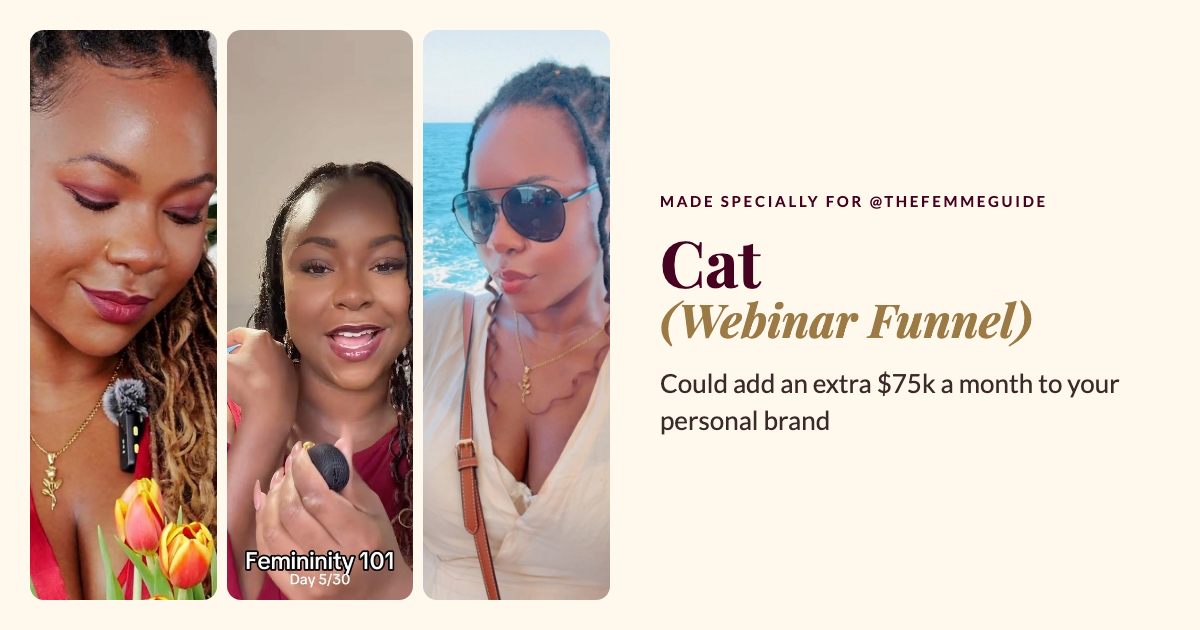
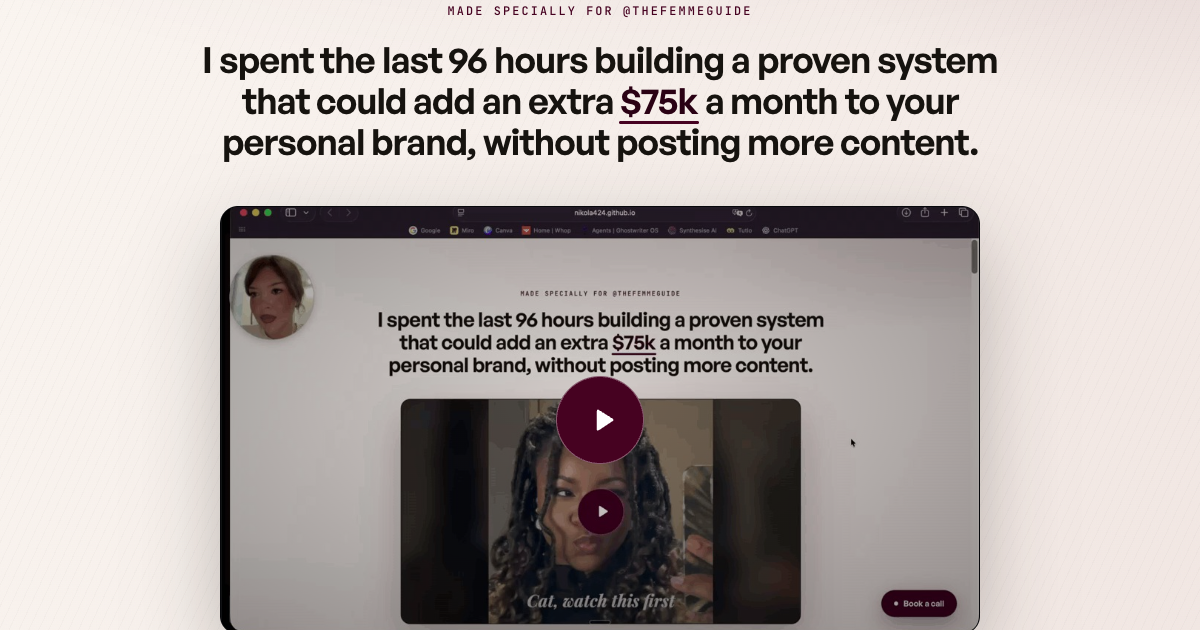
Hero: Cat's Loom + og preview with Loom frame

diff --git a/index.html b/index.html
@@ -8,14 +8,14 @@
   <meta name="robots" content="noindex" />
   <meta property="og:title" content="Cat, adding an extra $75k a month to your personal brand" />
   <meta property="og:description" content="Cat, adding an extra $75k a month to your personal brand" />
-  <meta property="og:image" content="https://nikola424.github.io/for-catshanu/og.png?v=3" />
+  <meta property="og:image" content="https://nikola424.github.io/for-catshanu/og.png?v=4" />
   <meta property="og:image:width" content="1200" />
   <meta property="og:image:height" content="630" />
   <meta property="og:url" content="https://nikola424.github.io/for-catshanu/" />
   <meta property="og:type" content="website" />
   <meta name="twitter:card" content="summary_large_image" />
   <meta name="twitter:title" content="Cat, adding an extra $75k a month to your personal brand" />
-  <meta name="twitter:image" content="https://nikola424.github.io/for-catshanu/og.png?v=3" />
+  <meta name="twitter:image" content="https://nikola424.github.io/for-catshanu/og.png?v=4" />
   <!-- Generated per build from the PROSPECT'S logo: node scripts/make_favicon.js {folder} -->
   <link rel="icon" href="assets/img/favicon.png" type="image/png" />
   <link rel="apple-touch-icon" href="assets/img/apple-touch-icon.png" />
@@ -34,7 +34,7 @@
        caseStudies : optional. [{ youtube: "VIDEO_ID" | image: "path", result: "$48k in 30 days", title: "...", text: "..." }]
     ============================================================================== */
     window.PITCH_CONFIG = {
-      heroEmbed: "",
+      heroEmbed: "https://www.loom.com/share/43613e27cd3c474a8872c7d8b6db59b9",
       calendly: "https://calendly.com/nikola-monetisebetter/discovery",
       mode: (new URLSearchParams(location.search).get("mode") || "funnel"),
       brand: { logo: "", name: "", url: "", footer: "" },
